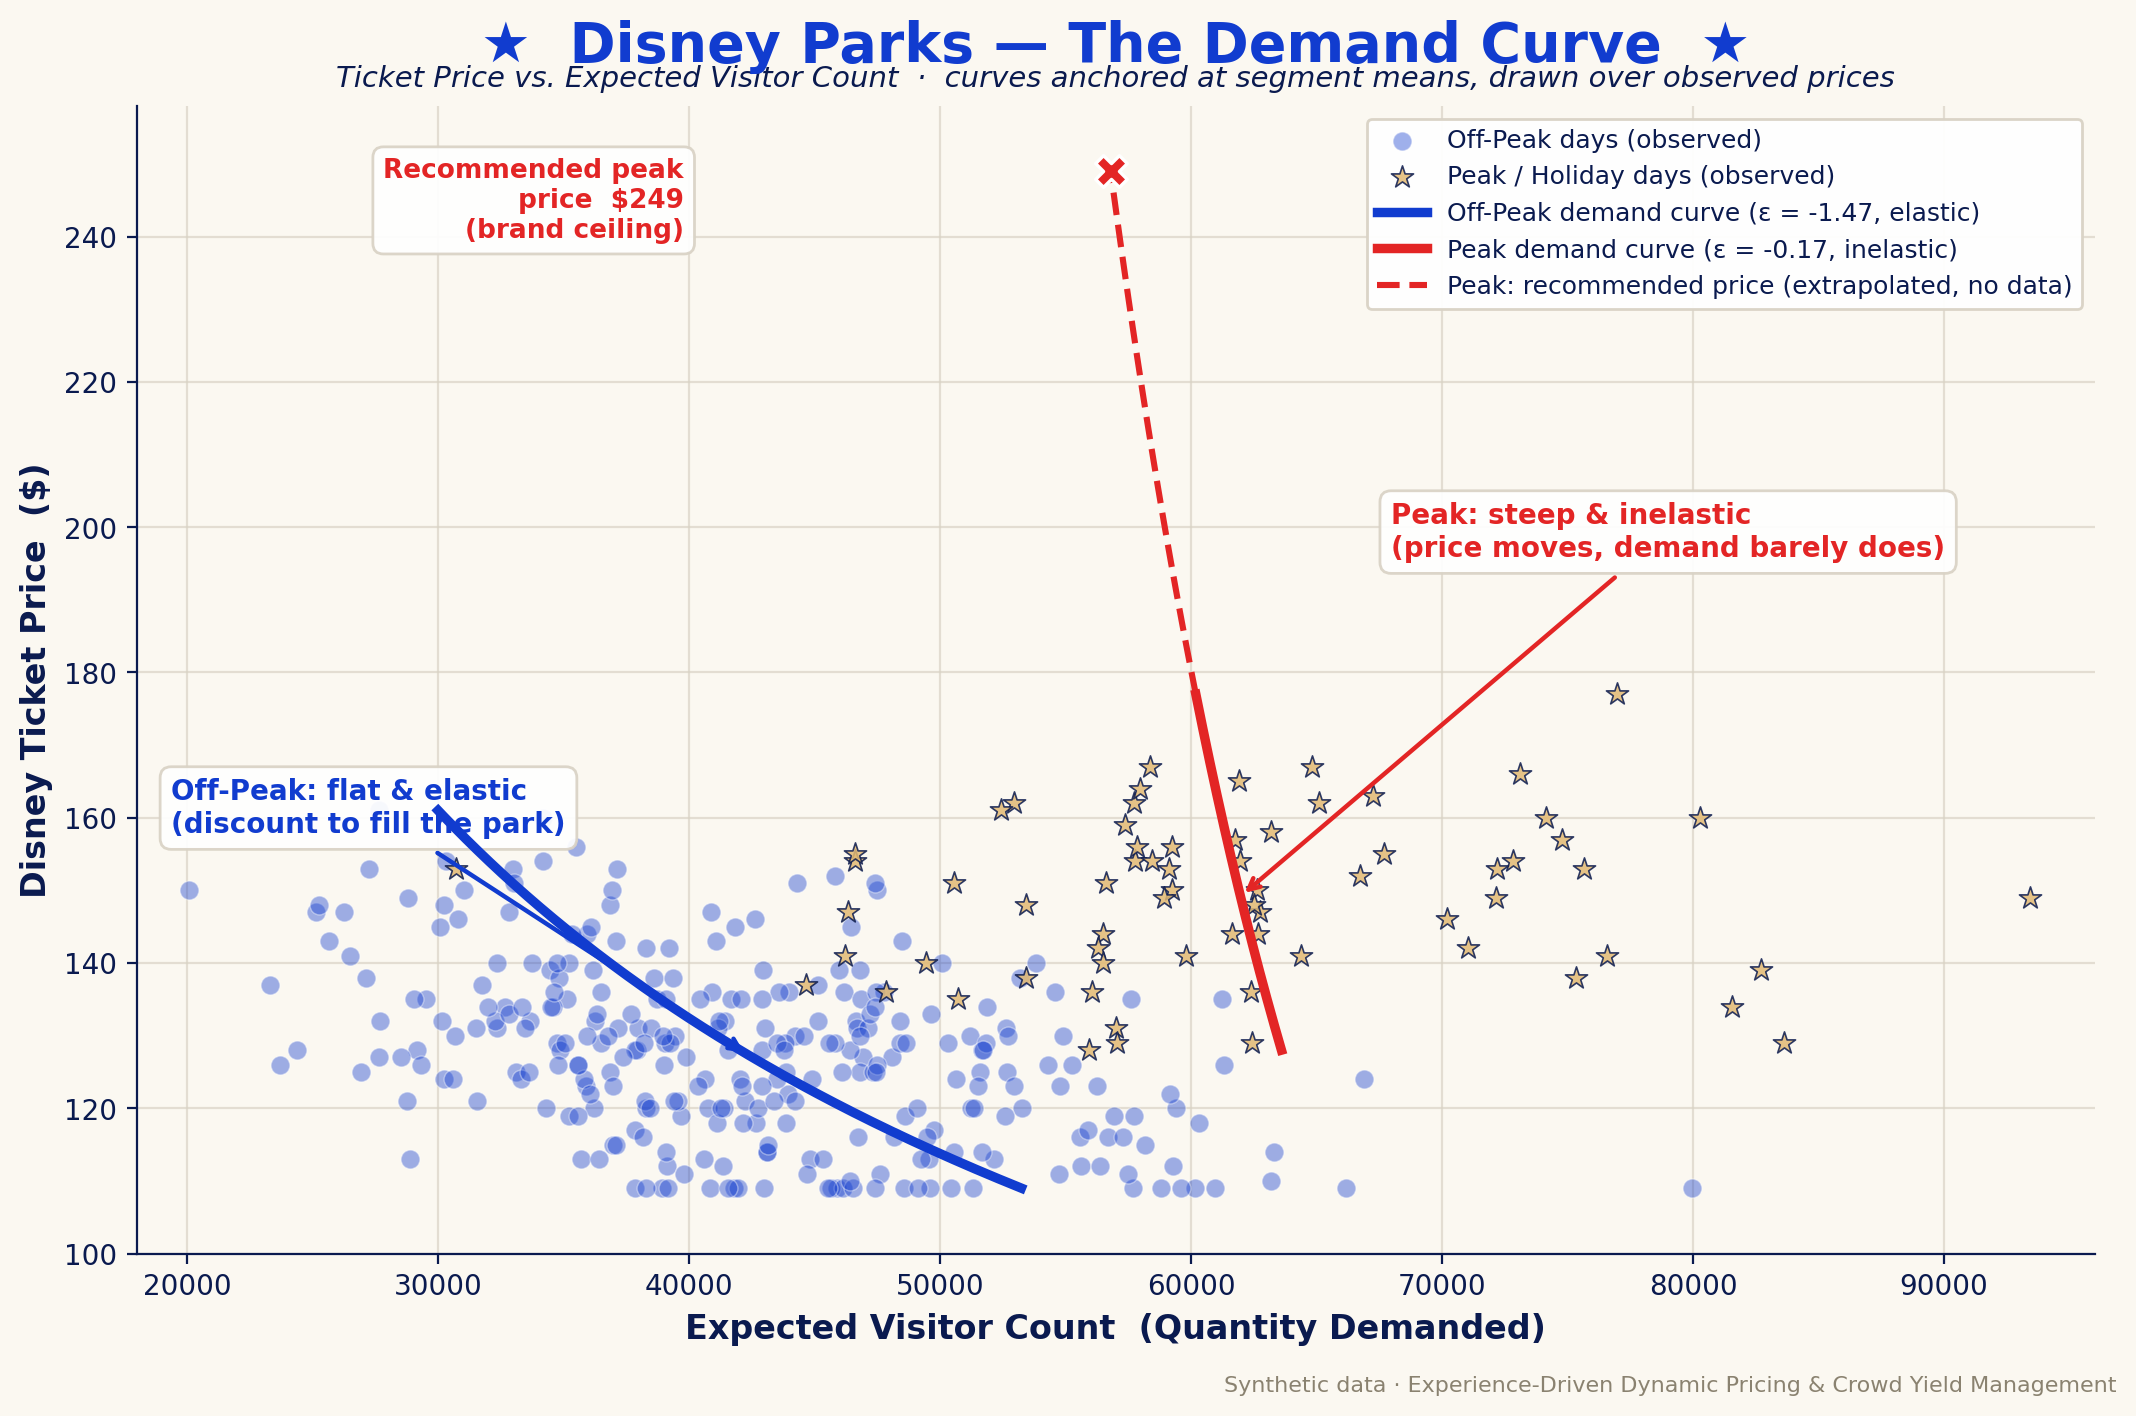
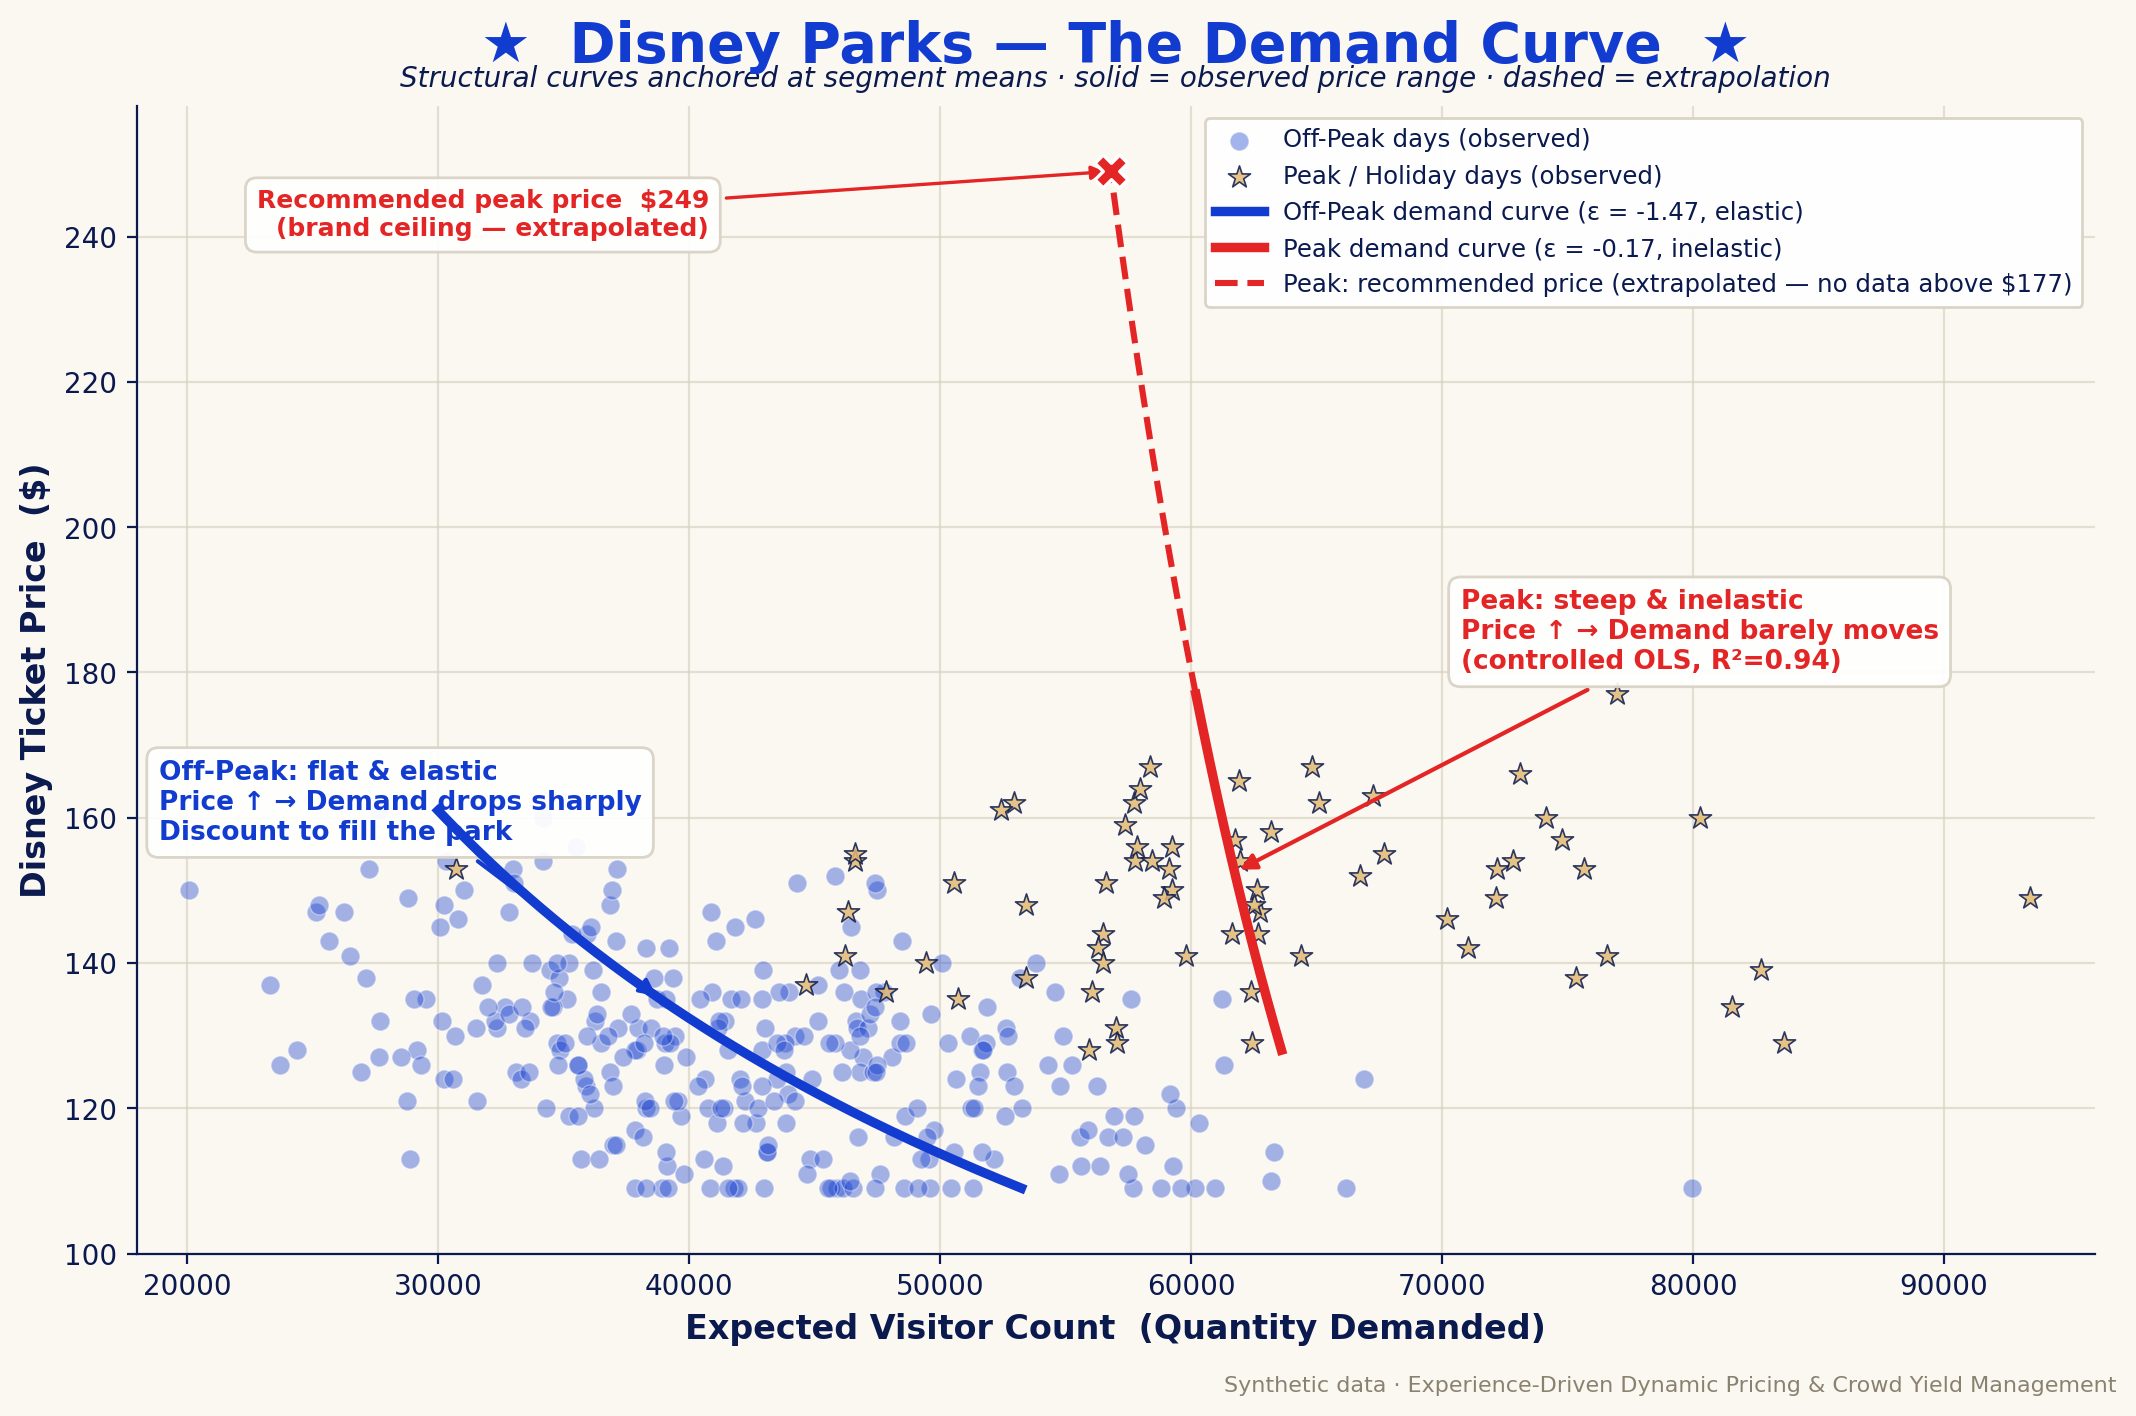
fix demand curve chart - corrected annotations and arrows

diff --git a/scripts/plot_demand_curve.py b/scripts/plot_demand_curve.py
@@ -1,20 +1,15 @@
 """
 plot_demand_curve.py
 ====================
-Read ``data/disney_park_data.csv`` and render a Disney-themed demand-curve chart
-to ``images/demand_curve.png``.
+Disney-themed demand curve chart → images/demand_curve.png
 
-Design notes (why this version is defensible)
----------------------------------------------
-* Each structural demand curve is anchored at its EMPIRICAL segment centroid
-  (mean price, mean quantity) computed from the data -- so every curve passes
-  through the middle of its own cloud instead of floating at the edge.
-* Each curve is drawn SOLID only across the price range actually observed for
-  that segment. The optimizer's recommended peak price sits above the observed
-  range, so that portion is drawn DASHED and labelled as an extrapolation -- we
-  never present a fitted line where no data exists.
-* Constant-elasticity form, using the elasticities recovered in
-  ``scripts/elasticity_model.py``.
+Economic note
+-------------
+The structural demand curves use elasticities recovered from a CONTROLLED
+log-log OLS regression (R²=0.94). The raw scatter appears to slope upward
+because peak days simultaneously raise both price AND demand (simultaneity
+bias). The regression controls for holiday, weather, weekday and month,
+isolating the true ceteris-paribus price effect.
 
 Run
 ---
@@ -22,115 +17,140 @@ Run
 """
 
 from __future__ import annotations
-
 from pathlib import Path
-
 import numpy as np
 import pandas as pd
 import matplotlib.pyplot as plt
 
-# --- Disney brand palette -----------------------------------------------------
-DISNEY_BLUE = "#113CCF"
-MAGIC_GOLD = "#E2B973"
-MINNIE_RED = "#E32525"
-INK = "#0A1A4F"
-CREAM = "#FBF8F1"
+DISNEY_BLUE  = "#113CCF"
+MAGIC_GOLD   = "#E2B973"
+MINNIE_RED   = "#E32525"
+INK          = "#0A1A4F"
+CREAM        = "#FBF8F1"
 
-# --- Estimated elasticities (from scripts/elasticity_model.py) ----------------
-ELASTICITY_PEAK = -0.17
+ELASTICITY_PEAK    = -0.17
 ELASTICITY_OFFPEAK = -1.47
+REC_PRICE_PEAK     = 249.0
 
-# --- Optimizer's recommended prices (from scripts/dynamic_pricing.py) ---------
-REC_PRICE_OFFPEAK = 119.0
-REC_PRICE_PEAK = 249.0
-
-ROOT = Path(__file__).resolve().parents[1]
+ROOT     = Path(__file__).resolve().parents[1]
 DATA_CSV = ROOT / "data" / "disney_park_data.csv"
-OUT_PNG = ROOT / "images" / "demand_curve.png"
+OUT_PNG  = ROOT / "images" / "demand_curve.png"
 
 
-def demand_curve(prices, elasticity, ref_price, ref_q):
-    """Constant-elasticity demand: Q = Q_ref * (P / P_ref) ** elasticity."""
-    return ref_q * (prices / ref_price) ** elasticity
+def demand_curve(prices, elasticity, ref_p, ref_q):
+    return ref_q * (prices / ref_p) ** elasticity
 
 
-def main() -> None:
+def main():
     if not DATA_CSV.exists():
-        raise FileNotFoundError(
-            f"{DATA_CSV} not found. Run `python scripts/generate_dataset.py` first."
-        )
-    df = pd.read_csv(DATA_CSV)
-    off = df[df["Holiday_Flag"] == 0]
+        raise FileNotFoundError("Run generate_dataset.py first.")
+
+    df   = pd.read_csv(DATA_CSV)
+    off  = df[df["Holiday_Flag"] == 0]
     peak = df[df["Holiday_Flag"] == 1]
 
-    # Empirical anchors (segment centroids) and observed price ranges.
-    off_anchor = (off["Disney_Ticket_Price"].mean(), off["Expected_Visitor_Count"].mean())
-    peak_anchor = (peak["Disney_Ticket_Price"].mean(), peak["Expected_Visitor_Count"].mean())
-    off_pmin, off_pmax = off["Disney_Ticket_Price"].min(), off["Disney_Ticket_Price"].max()
+    # Empirical anchors (segment means) — curves pass through cloud centres
+    off_ap,  off_aq  = off["Disney_Ticket_Price"].mean(),  off["Expected_Visitor_Count"].mean()
+    peak_ap, peak_aq = peak["Disney_Ticket_Price"].mean(), peak["Expected_Visitor_Count"].mean()
+    off_pmin,  off_pmax  = off["Disney_Ticket_Price"].min(),  off["Disney_Ticket_Price"].max()
     peak_pmin, peak_pmax = peak["Disney_Ticket_Price"].min(), peak["Disney_Ticket_Price"].max()
 
     plt.rcParams.update({
-        "font.family": "DejaVu Sans", "axes.edgecolor": INK, "text.color": INK,
-        "axes.labelcolor": INK, "xtick.color": INK, "ytick.color": INK,
+        "font.family": "DejaVu Sans", "axes.edgecolor": INK,
+        "text.color": INK, "axes.labelcolor": INK,
+        "xtick.color": INK, "ytick.color": INK,
     })
 
     fig, ax = plt.subplots(figsize=(11, 7.5))
     fig.patch.set_facecolor(CREAM)
     ax.set_facecolor(CREAM)
 
-    # --- Observed data cloud (x = quantity, y = price) ---
-    ax.scatter(off["Expected_Visitor_Count"], off["Disney_Ticket_Price"],
-               s=46, c=DISNEY_BLUE, alpha=0.40, edgecolors="white", linewidths=0.5,
-               label="Off-Peak days (observed)", zorder=2)
+    # ── Scatter ──────────────────────────────────────────────────────────────
+    ax.scatter(off["Expected_Visitor_Count"],  off["Disney_Ticket_Price"],
+               s=46, c=DISNEY_BLUE, alpha=0.38, edgecolors="white",
+               linewidths=0.5, label="Off-Peak days (observed)", zorder=2)
     ax.scatter(peak["Expected_Visitor_Count"], peak["Disney_Ticket_Price"],
-               s=70, c=MAGIC_GOLD, alpha=0.85, edgecolors=INK, linewidths=0.6,
-               marker="*", label="Peak / Holiday days (observed)", zorder=3)
+               s=70, c=MAGIC_GOLD, alpha=0.85, edgecolors=INK,
+               linewidths=0.6, marker="*",
+               label="Peak / Holiday days (observed)", zorder=3)
 
-    # --- Structural curves: SOLID over observed range only ---
-    p_off = np.linspace(off_pmin, off_pmax, 200)
-    ax.plot(demand_curve(p_off, ELASTICITY_OFFPEAK, *off_anchor), p_off,
+    # ── Structural curves — solid over OBSERVED price range only ─────────────
+    p_off  = np.linspace(off_pmin,  off_pmax,  200)
+    p_peak = np.linspace(peak_pmin, peak_pmax, 200)
+
+    ax.plot(demand_curve(p_off,  ELASTICITY_OFFPEAK, off_ap,  off_aq),  p_off,
             color=DISNEY_BLUE, lw=3.4, zorder=5,
             label=f"Off-Peak demand curve (\u03b5 = {ELASTICITY_OFFPEAK:.2f}, elastic)")
-
-    p_peak = np.linspace(peak_pmin, peak_pmax, 200)
-    ax.plot(demand_curve(p_peak, ELASTICITY_PEAK, *peak_anchor), p_peak,
-            color=MINNIE_RED, lw=3.4, zorder=5,
+    ax.plot(demand_curve(p_peak, ELASTICITY_PEAK,    peak_ap, peak_aq), p_peak,
+            color=MINNIE_RED,  lw=3.4, zorder=5,
             label=f"Peak demand curve (\u03b5 = {ELASTICITY_PEAK:.2f}, inelastic)")
 
-    # --- Recommended peak price = extrapolation beyond data -> DASHED ---
+    # ── Dashed extrapolation to recommended peak price ───────────────────────
     p_ext = np.linspace(peak_pmax, REC_PRICE_PEAK, 80)
-    q_ext = demand_curve(p_ext, ELASTICITY_PEAK, *peak_anchor)
+    q_ext = demand_curve(p_ext, ELASTICITY_PEAK, peak_ap, peak_aq)
     ax.plot(q_ext, p_ext, color=MINNIE_RED, lw=2.2, ls="--", zorder=5,
-            label="Peak: recommended price (extrapolated, no data)")
-    ax.scatter([q_ext[-1]], [REC_PRICE_PEAK], s=130, c=MINNIE_RED, marker="X",
-               edgecolors="white", linewidths=1.2, zorder=6)
-    ax.annotate(f"Recommended peak\nprice  ${REC_PRICE_PEAK:.0f}\n(brand ceiling)",
-                xy=(q_ext[-1], REC_PRICE_PEAK), xytext=(q_ext[-1] - 17_000, REC_PRICE_PEAK - 4),
-                fontsize=9.5, color=MINNIE_RED, fontweight="bold", ha="right", va="center",
-                bbox=dict(boxstyle="round,pad=0.4", facecolor="white",
-                          edgecolor="#D9D2C5", alpha=0.92))
+            label="Peak: recommended price (extrapolated \u2014 no data above $177)")
+    # X marker at recommended price — no directional arrow
+    ax.scatter([q_ext[-1]], [REC_PRICE_PEAK], s=140, c=MINNIE_RED,
+               marker="X", edgecolors="white", linewidths=1.2, zorder=6)
 
-    # --- Annotations on the observed portion ---
-    label_box = dict(boxstyle="round,pad=0.4", facecolor="white",
-                     edgecolor="#D9D2C5", alpha=0.92)
-    ax.annotate("Peak: steep & inelastic\n(price moves, demand barely does)",
-                xy=(peak_anchor[1], peak_anchor[0]), xytext=(peak_anchor[1] + 6_000, 196),
-                fontsize=10, color=MINNIE_RED, fontweight="bold", ha="left", bbox=label_box,
-                arrowprops=dict(arrowstyle="->", color=MINNIE_RED, lw=1.6))
-    ax.annotate("Off-Peak: flat & elastic\n(discount to fill the park)",
-                xy=(off_anchor[1], off_anchor[0]), xytext=(off_anchor[1] - 23_000, 158),
-                fontsize=10, color=DISNEY_BLUE, fontweight="bold", ha="left", bbox=label_box,
-                arrowprops=dict(arrowstyle="->", color=DISNEY_BLUE, lw=1.6))
+    # ── Annotation boxes — no directional arrows on the curves ───────────────
+    label_box = dict(boxstyle="round,pad=0.45", facecolor="white",
+                     edgecolor="#D9D2C5", alpha=0.93)
 
-    # --- Titles, labels, frame ---
+    # Peak annotation: point to the SOLID red curve midpoint, not the extrapolation
+    peak_mid_p = (peak_pmin + peak_pmax) / 2
+    peak_mid_q = demand_curve(peak_mid_p, ELASTICITY_PEAK, peak_ap, peak_aq)
+    ax.annotate(
+        "Peak: steep & inelastic\n"
+        "Price \u2191 \u2192 Demand barely moves\n"
+        "(controlled OLS, R\u00b2=0.94)",
+        xy=(peak_mid_q, peak_mid_p),
+        xytext=(peak_mid_q + 9_000, peak_mid_p + 28),
+        fontsize=9.5, color=MINNIE_RED, fontweight="bold",
+        ha="left", bbox=label_box,
+        arrowprops=dict(arrowstyle="-|>", color=MINNIE_RED,
+                        lw=1.5, mutation_scale=12),
+    )
+
+    # Off-peak annotation: point to the blue curve midpoint
+    off_mid_p = (off_pmin + off_pmax) / 2
+    off_mid_q = demand_curve(off_mid_p, ELASTICITY_OFFPEAK, off_ap, off_aq)
+    ax.annotate(
+        "Off-Peak: flat & elastic\n"
+        "Price \u2191 \u2192 Demand drops sharply\n"
+        "Discount to fill the park",
+        xy=(off_mid_q, off_mid_p),
+        xytext=(off_mid_q - 20_000, off_mid_p + 22),
+        fontsize=9.5, color=DISNEY_BLUE, fontweight="bold",
+        ha="left", bbox=label_box,
+        arrowprops=dict(arrowstyle="-|>", color=DISNEY_BLUE,
+                        lw=1.5, mutation_scale=12),
+    )
+
+    # Recommended price label — plain box, no arrow (it's the X marker)
+    ax.annotate(
+        f"Recommended peak price  ${REC_PRICE_PEAK:.0f}\n"
+        "(brand ceiling \u2014 extrapolated)",
+        xy=(q_ext[-1], REC_PRICE_PEAK),
+        xytext=(q_ext[-1] - 16_000, REC_PRICE_PEAK - 6),
+        fontsize=9, color=MINNIE_RED, fontweight="bold",
+        ha="right", va="center", bbox=label_box,
+        arrowprops=dict(arrowstyle="-|>", color=MINNIE_RED,
+                        lw=1.2, mutation_scale=10),
+    )
+
+    # ── Titles, labels, frame ────────────────────────────────────────────────
     ax.set_title("\u2605  Disney Parks \u2014 The Demand Curve  \u2605",
                  fontsize=20, fontweight="bold", color=DISNEY_BLUE, pad=16)
     ax.text(0.5, 1.012,
-            "Ticket Price vs. Expected Visitor Count  \u00b7  curves anchored at "
-            "segment means, drawn over observed prices",
+            "Structural curves anchored at segment means \u00b7 "
+            "solid = observed price range \u00b7 dashed = extrapolation",
             transform=ax.transAxes, ha="center", va="bottom",
-            fontsize=10.5, color=INK, style="italic")
-    ax.set_xlabel("Expected Visitor Count  (Quantity Demanded)", fontsize=12, fontweight="bold")
+            fontsize=10, color=INK, style="italic")
+
+    ax.set_xlabel("Expected Visitor Count  (Quantity Demanded)",
+                  fontsize=12, fontweight="bold")
     ax.set_ylabel("Disney Ticket Price  ($)", fontsize=12, fontweight="bold")
     ax.grid(True, color="#D9D2C5", linewidth=0.8, alpha=0.7)
     ax.set_axisbelow(True)
@@ -139,22 +159,20 @@ def main() -> None:
     ax.set_xlim(18_000, 96_000)
     ax.set_ylim(100, 258)
 
-    legend = ax.legend(loc="upper right", frameon=True, fontsize=9,
+    legend = ax.legend(loc="upper right", frameon=True, fontsize=8.8,
                        facecolor="white", edgecolor="#D9D2C5", framealpha=0.95)
     legend.get_frame().set_linewidth(1.0)
 
     fig.text(0.985, 0.02,
-             "Synthetic data \u00b7 Experience-Driven Dynamic Pricing & Crowd Yield Management",
+             "Synthetic data \u00b7 "
+             "Experience-Driven Dynamic Pricing & Crowd Yield Management",
              ha="right", va="bottom", fontsize=8, color="#8A8270")
 
     OUT_PNG.parent.mkdir(parents=True, exist_ok=True)
     fig.subplots_adjust(left=0.085, right=0.975, top=0.88, bottom=0.115)
-    fig.savefig(OUT_PNG, dpi=200, facecolor=fig.get_facecolor(), bbox_inches="tight")
-    print(f"Saved chart to {OUT_PNG.relative_to(ROOT)}")
-    print(f"Off-peak anchor (mean): ${off_anchor[0]:.0f} / {off_anchor[1]:,.0f} guests "
-          f"| observed price ${off_pmin:.0f}-${off_pmax:.0f}")
-    print(f"Peak anchor (mean):     ${peak_anchor[0]:.0f} / {peak_anchor[1]:,.0f} guests "
-          f"| observed price ${peak_pmin:.0f}-${peak_pmax:.0f}")
+    fig.savefig(OUT_PNG, dpi=200, facecolor=fig.get_facecolor(),
+                bbox_inches="tight")
+    print(f"Saved → {OUT_PNG.relative_to(ROOT)}")
 
 
 if __name__ == "__main__":